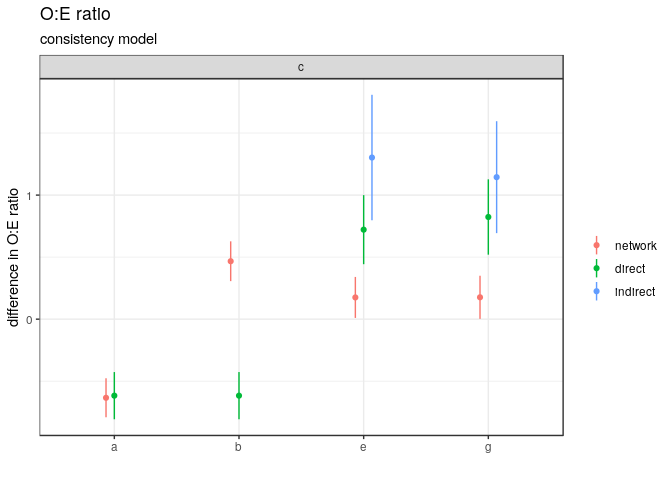
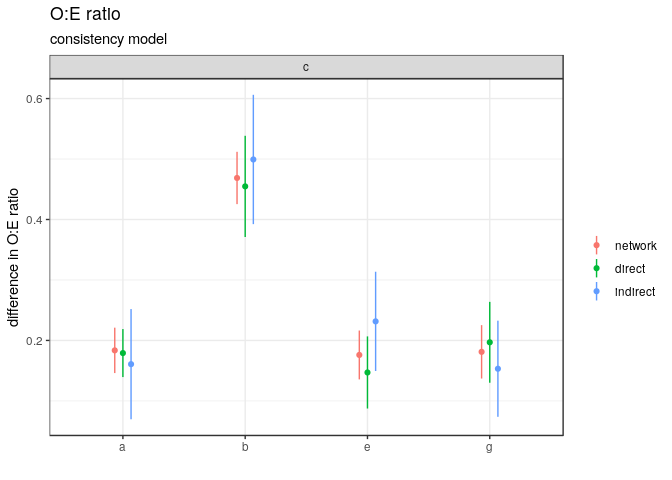
update readme

diff --git a/README.md b/README.md
@@ -42,82 +42,45 @@ bs.example <- get_bs_samples(data = dat, id = id, cohort = study,
 ps <- compute_performance(bs.example, fn = oe_ratio, 
                           lbl = "O:E ratio")
 summary(ps)
-#>   score nonmiss median   q1   q3
-#> 1     a      15   1.06 0.38 1.10
-#> 2     b      13   1.37 0.63 1.40
-#> 3     c      12   0.75 0.29 0.89
-#> 4     e      12   0.98 0.36 1.15
-#> 5     g      11   1.07 0.50 1.12
-
-agg <- aggregate_performance(ps, reference = "b")
-check_transitivity(agg, graph = TRUE)
-#> Warning in qt(a, object$df.residual): NaNs produced
-
-#> Warning in qt(a, object$df.residual): NaNs produced
-
-#> Warning in qt(a, object$df.residual): NaNs produced
-
-#> Warning in qt(a, object$df.residual): NaNs produced
+#>   score nonmiss median   q1   q3 performance
+#> 1     a      15   1.06 0.38 1.10   O:E ratio
+#> 2     b      13   1.37 0.63 1.40   O:E ratio
+#> 3     c      12   0.75 0.29 0.89   O:E ratio
+#> 4     e      12   0.98 0.36 1.15   O:E ratio
+#> 5     g      11   1.07 0.50 1.12   O:E ratio
+check_transitivity(ps, graph = TRUE)
 ```
 
 <img src="man/figures/README-example-1.png" width="60%" />
 
-    #> # A tibble: 10 x 9
-    #>    contr moderator term   estimate std.error statistic  p.value  conf.low conf.high
-    #>    <fct> <fct>     <chr>     <dbl>     <dbl>     <dbl>    <dbl>     <dbl>     <dbl>
-    #>  1 g-a   age       age      0.0514  NaN        NaN     NaN      NaN        NaN     
-    #>  2 a-b   age       age      0.0621    0.0274     2.27    0.0445   0.00181    0.122 
-    #>  3 c-b   age       age      0.0209    0.0197     1.06    0.313   -0.0229     0.0647
-    #>  4 e-b   age       age      0.0930    0.0398     2.34    0.0442   0.00299    0.183 
-    #>  5 g-b   age       age      0.0382    0.0425     0.898   0.399   -0.0624     0.139 
-    #>  6 g-a   female    female   2.40    NaN        NaN     NaN      NaN        NaN     
-    #>  7 a-b   female    female  -0.460     1.02      -0.450   0.661   -2.71       1.79  
-    #>  8 c-b   female    female   0.521     0.563      0.925   0.377   -0.734      1.78  
-    #>  9 e-b   female    female  -0.930     1.12      -0.833   0.427   -3.46       1.60  
-    #> 10 g-b   female    female  -0.559     1.00      -0.556   0.596   -2.93       1.82
+    #> # A tibble: 8 x 9
+    #>   contr moderator term     estimate std.error statistic p.value  conf.low conf.high
+    #>   <fct> <fct>     <chr>       <dbl>     <dbl>     <dbl>   <dbl>     <dbl>     <dbl>
+    #> 1 e-a   age       age     0.00571     0.00222   2.58     0.0276  0.000770   0.0106 
+    #> 2 g-a   age       age     0.00349     0.00141   2.48     0.0352  0.000301   0.00668
+    #> 3 b-a   age       age     0.00215     0.00371   0.581    0.573  -0.00600    0.0103 
+    #> 4 c-a   age       age     0.0000179   0.00294   0.00610  0.995  -0.00653    0.00657
+    #> 5 e-a   female    female  0.0829      0.0857    0.968    0.356  -0.108      0.274  
+    #> 6 g-a   female    female  0.0822      0.0423    1.95     0.0836 -0.0134     0.178  
+    #> 7 b-a   female    female -0.0216      0.116    -0.186    0.856  -0.277      0.234  
+    #> 8 c-a   female    female -0.111       0.0951   -1.17     0.270  -0.323      0.101
 
-    modc <- consistency(agg)
-    modi <- inconsistency(agg)
-    modi
-    #> 
-    #> Multivariate Meta-Analysis Model (k = 48; method: REML)
-    #> 
-    #> Variance Components: 
-    #> 
-    #> outer factor: cohort (nlvls = 15)
-    #> inner factor: contr  (nlvls = 6)
-    #> 
-    #>             estim    sqrt  fixed
-    #> tau^2      0.0797  0.2823     no
-    #> rho        0.5000            yes
-    #> 
-    #> outer factor: design (nlvls = 6)
-    #> inner factor: contr  (nlvls = 6)
-    #> 
-    #>             estim    sqrt  fixed
-    #> gamma^2    0.0430  0.2074     no
-    #> phi        0.5000            yes
-    #> 
-    #> Test for Residual Heterogeneity: 
-    #> QE(df = 44) = 2509.9110, p-val < .0001
-    #> 
-    #> Test of Moderators (coefficient(s) 1:4): 
-    #> QM(df = 4) = 59.4103, p-val < .0001
-    #> 
-    #> Model Results:
-    #> 
-    #>    estimate      se    zval    pval   ci.lb   ci.ub     
-    #> a    0.7692  0.1327  5.7952  <.0001  0.5091  1.0294  ***
-    #> c    0.6692  0.1445  4.6295  <.0001  0.3859  0.9524  ***
-    #> e    0.9207  0.1440  6.3922  <.0001  0.6384  1.2031  ***
-    #> g    0.9635  0.1450  6.6455  <.0001  0.6793  1.2476  ***
-    #> 
-    #> ---
-    #> Signif. codes:  0 '***' 0.001 '**' 0.01 '*' 0.05 '.' 0.1 ' ' 1
+    msc_model(ps, mtype = "consistency")
+    #>   s1 s2       model  type estimate  ci.lb  ci.ub    pval   measure mods
+    #> b  a  b consistency model   0.2851  0.247  0.323 3.8e-49 O:E ratio     
+    #> c  a  c consistency model  -0.1836 -0.221 -0.146 8.7e-22 O:E ratio     
+    #> e  a  e consistency model  -0.0076 -0.045  0.030 6.9e-01 O:E ratio     
+    #> g  a  g consistency model  -0.0024 -0.041  0.036 9.0e-01 O:E ratio
+    (modi <- msc_model(ps, mtype = "inconsistency"))
+    #>   s1 s2         model  type estimate  ci.lb  ci.ub    pval   measure mods
+    #> b  a  b inconsistency model   0.2851  0.247  0.323 3.8e-49 O:E ratio     
+    #> c  a  c inconsistency model  -0.1836 -0.221 -0.146 8.7e-22 O:E ratio     
+    #> e  a  e inconsistency model  -0.0076 -0.045  0.030 6.9e-01 O:E ratio     
+    #> g  a  g inconsistency model  -0.0024 -0.041  0.036 9.0e-01 O:E ratio
 
     check_homogeneity(modi)
-    #>   tau2   QE df QEp
-    #> 1 0.08 2510 44   0
+    #>           tau2  QE df     QEp
+    #> network 0.0038 325 44 1.8e-44
     check_consistency(ps)
     #> Warning: Removed 5 rows containing missing values (geom_linerange).
     #> Warning: Removed 5 rows containing missing values (geom_point).
@@ -126,10 +89,8 @@ check_transitivity(agg, graph = TRUE)
 
 ``` r
 
-fullres <- msc_full(ps)
-plot(fullres, compare_to = "c")
-#> Warning: Removed 2 rows containing missing values (geom_linerange).
-#> Warning: Removed 2 rows containing missing values (geom_point).
+fullres <- msc_full(ps, ref = "c")
+plot(fullres)
 ```
 
 <img src="man/figures/README-example-3.png" width="60%" />
